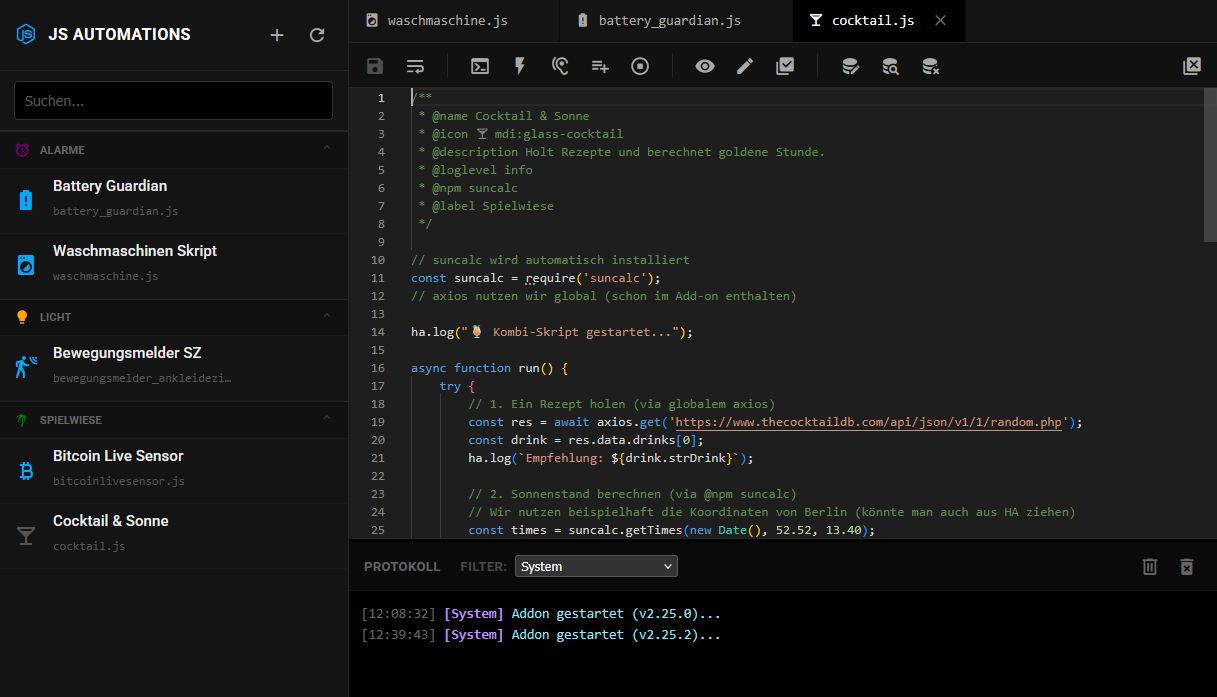
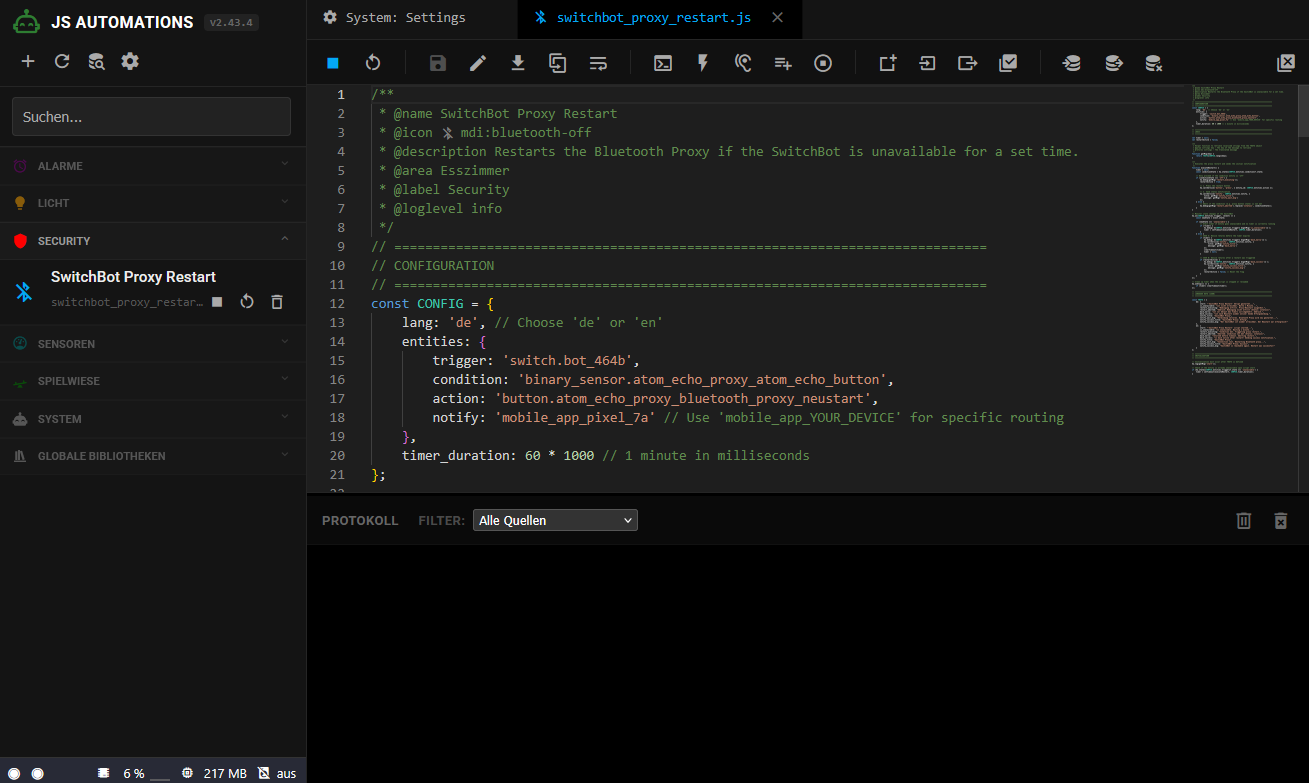
2.44.0

diff --git a/README.md b/README.md
@@ -1,9 +1,9 @@
 # JS Automations for Home Assistant
 
 ![Addon](https://img.shields.io/badge/Home%20Assistant-Add--on-41BDF5?logo=home-assistant)
-![Version](https://img.shields.io/badge/version-2.43.5-darkgreen)
+![Version](https://img.shields.io/badge/version-2.44.0-darkgreen)
 ![Status](https://img.shields.io/badge/status-beta-red)
-![Integration](https://img.shields.io/badge/integration-1.3.0-orange)
+![Integration](https://img.shields.io/badge/integration-2.0.0-orange)
 ![License](https://img.shields.io/badge/license-MIT-blue)
 
 <p align="center">